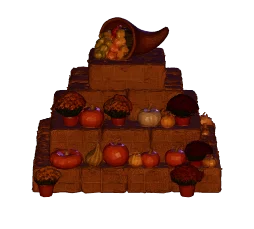
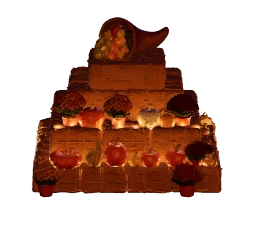
NIGHT-A Group 3 (City 2.0): THE HARVEST MODEL IN THE CITY's LIGHT — re-baked (scripts/bake/harvest.mjs): NIGHT = a cool sky ambient + the new light's wash as a warm key from the front, low + each of the code's 25 Edison bulbs a real point light at its 3D place on the ledges + the compass floods' war
Claude-Session: https://claude.ai/code/session_01VSeZeX6GB3SLC2gBg6padG

diff --git a/js/screens/harbor/harvest.js b/js/screens/harbor/harvest.js
@@ -210,8 +210,9 @@ function harvestModel() {
     mLoading = (async () => {
       let meta = MODEL_META, metaWhy = '';
       try { const r = await fetch(new URL('harvest.json', MODEL_BASE).href); if (!r.ok) throw new Error(String(r.status)); meta = await r.json(); } catch (e) { metaWhy = ` · harvest.json ${String((e && e.message) || e).slice(0, 40)}: built-in numbers`; }
-      const [day, night] = await Promise.all([modelSprite('day'), modelSprite('night')]);
-      mModel = { ...meta, day: day.img, night: night.img };
+      // (NIGHT-A: + the GOLDEN HOUR's sprite — between day + night; a missing one never holds the model: day → night as before)
+      const [day, night, gold] = await Promise.all([modelSprite('day'), modelSprite('night'), modelSprite('gold').catch(() => null)]);
+      mModel = { ...meta, day: day.img, night: night.img, gold: gold ? gold.img : null };
       mSet('in', `${meta.w}×${meta.h} ${day.fmt === night.fmt ? day.fmt : `day ${day.fmt}, night ${night.fmt}`}${metaWhy}`, t0); return mModel;
     })();
     mLoading.catch(e => {
@@ -240,6 +241,8 @@ export function createHarvest(deps) {
     if (mCv.width !== M.w || mCv.height !== M.h) { mCv.width = M.w; mCv.height = M.h; }
     const x = safeCtx(mCv); x.globalCompositeOperation = 'source-over'; x.globalAlpha = 1; x.clearRect(0, 0, M.w, M.h);
     if (n < 0.999) x.drawImage(M.day, 0, 0);
+    // (NIGHT-A: the golden hour's own bake over the day by the tones' gold — a low warm sun; then the night by the darkness)
+    const gk = M.gold ? clamp01(T.gold || 0) * (1 - n) : 0; if (gk > 0.001) { x.globalAlpha = gk; x.drawImage(M.gold, 0, 0); x.globalAlpha = 1; }
     if (n > 0.001) { x.globalAlpha = n; x.drawImage(M.night, 0, 0); x.globalAlpha = 1; }
     // (the night sprite carries the lamps' light: with the lamps down — the dusk before they catch, the blackout — it darkens on its own pixels)
     const dim = n * (1 - lamp) * 0.72; if (dim > 0.01) { x.globalCompositeOperation = 'source-atop'; x.fillStyle = `rgba(10,8,22,${dim.toFixed(3)})`; x.fillRect(0, 0, M.w, M.h); x.globalCompositeOperation = 'source-over'; }

diff --git a/js/ui/credits.js b/js/ui/credits.js
@@ -3,11 +3,13 @@
 // exactly as its credits.txt gives it (e.g. art/models/<name>/credits.txt). Groups show in the order they first appear.
 import { h } from './dom.js';
 
-// C4c — READY, NOT LISTED: the harvest display's 3D model test (art/models/harvest/credits.txt). Add it to CREDITS below if the owner
-// picks the model over the drawn display (&prop=model). Its licence (Tencent Hunyuan 3D 2.1 Community License) asks AI-generated content
-// shown publicly to be identified as AI-generated, and does not cover the EU, the UK + South Korea — the owner's call before it ships.
+// C4c — the harvest display's 3D model (art/models/harvest/credits.txt). Its licence (Tencent Hunyuan 3D 2.1 Community License) asks
+// AI-generated content shown publicly to be identified as AI-generated, and does not cover the EU, the UK + South Korea.
+// NIGHT-A — LISTED (the owner, Oct 29 4:34 pm: "we don't care about those few countries — it's a hobby project": Hunyuan3D models MAY
+// SHIP, with the AI-generated label here). Before any MONEY (the app stores, payments, a paid pack): re-check every Hunyuan asset's terms.
 export const HARVEST_MODEL_CREDIT = Object.freeze({ group: '3D MODELS', title: 'Harvest display (AI-generated)', by: 'Generated with Tencent Hunyuan3D 2.1 from a Grok Imagine reference image', licence: 'Tencent Hunyuan 3D 2.1 Community License — AI-generated', link: 'https://huggingface.co/tencent/Hunyuan3D-2.1' });
 export const CREDITS = [
+  HARVEST_MODEL_CREDIT,   // (NIGHT-A: live — the AI-generated label the licence asks for)
   // 3D MODELS (rendered offline into sprites — scripts/bake-model.mjs + scripts/bake/<recipe>.mjs; the raw models never ship) — word for word from its credits.txt
   // (art/models/<name>/credits.txt): the title, the author, the link, the licence
   { group: '3D MODELS', title: '"UFO" by sebslom', by: 'https://sketchfab.com/3d-models/ufo-75655f43c4fc4c56ab60746caf7119fe', licence: 'Licensed under CC BY 4.0 (http://creativecommons.org/licenses/by/4.0/)', link: 'https://sketchfab.com/3d-models/ufo-75655f43c4fc4c56ab60746caf7119fe' },

diff --git a/js/screens/harbor/window-paint.js b/js/screens/harbor/window-paint.js
@@ -88,7 +88,10 @@ export function createPaint(life) {
     // the dark room under the hem (a sliver), lit faintly by what's behind
     const glowC = o.glow === 'tv' ? (() => { const tv = mo ? tvLight(t, 11, { late: !!life.last.tvLate }) : { k: 0.7, tint: 0.4, warm: 0 }; return { col: tvCols(tv, t).near, a: Math.min(1, (0.5 + 0.5 * tv.k) * TV_LIFT) * k }; })()   /* (SP6: a quiet stretch never sinks the party's one blue window) */
       : o.glow === 'lamp' ? { col: [255, 196, 120], a: 0.85 * k } : { col: [40, 36, 50], a: 0 };
-    R(c, G.g0, G.h0, G.g1, G.h1, rgb(mixc([9, 8, 14], glowC.col, 0.18 * glowC.a)));
+    // (NIGHT-A — the owner, Oct 29: by day the strip under his hem read as an OPEN HOLE — this near-black was opaque over the bake's glass.
+    // By day it is only a dim room seen THROUGH the same glass as the neighbours' lower panes (the bake's sky tint + sheen under this
+    // layer show through); at night as before — the dark room + the lamp / TV's glow under the hem)
+    { const dk = clamp01(day) * (1 - Math.min(1, glowC.a * 2)), a0 = c.globalAlpha; c.globalAlpha = a0 * (1 - 0.78 * dk); R(c, G.g0, G.h0, G.g1, G.h1, rgb(mixc([9, 8, 14], glowC.col, 0.18 * glowC.a))); c.globalAlpha = a0; }
     // THE SHADE: the cloth — 9c (the owner: the olive "reads a weird dark brown"; DECIDED: the building's own blind): by day the same CREAM /
     // TAN HOLLAND LINEN as the edge windows' blinds ([236,214,176] → [176,146,84]), fully down + evenly lit by the sun from outside (his
     // window reads CLOSED by being the only one fully drawn); dark at night, lit from behind
